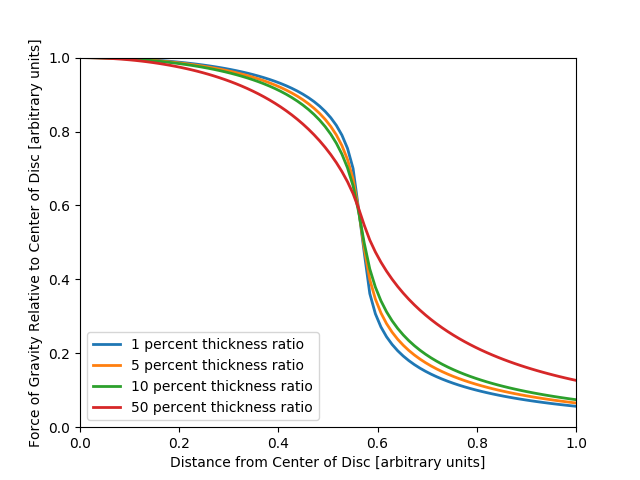
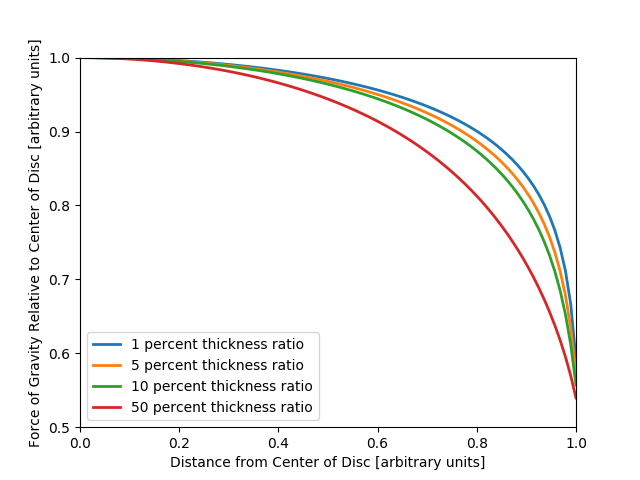
fixed bug with radius being outside of grid

diff --git a/flat_earth_gravity.py b/flat_earth_gravity.py
@@ -1,13 +1,13 @@
 import math
 import matplotlib.pyplot as plt
 
-grid_N = 100
-disc_r = 90
+grid_N = 200
+disc_r = 95
 
 def make_plot(data):
     fig, ax = plt.subplots()
     plt.xlim(0,1)
-    plt.ylim(0,1)
+    plt.ylim(0.5,1)
     for d in data:
         (r,(x,y)) = d
         plt.plot(x,y,lw=2,label="%d percent thickness ratio"%(int(r*100)))

diff --git a/README.md b/README.md
@@ -9,5 +9,5 @@ Several different disc thicknesses are calculated, all relative to disc radius t
 
 ## Conclusions
 Seems like Newtonian gravity would have to be incorrect for the earth to be flat (really!? What a surprising result!).
-If you lived on a flat earth with Newtonian gravity and weighed 100 lbs at the center of the flat earth (wherever that is), you would only weigh around 60 lbs halfway between the center and the edge and about 10 lbs at the edge.
+If you lived on a flat earth with Newtonian gravity and weighed 100 lbs at the center of the flat earth (wherever that is), you would only weigh around 95 lbs halfway between the center and the edge and about 55 lbs at the edge.
 Flat earthers, learn some math and basic logic/reasoning skills please, this stuff was known hundreds of years ago dudes.
